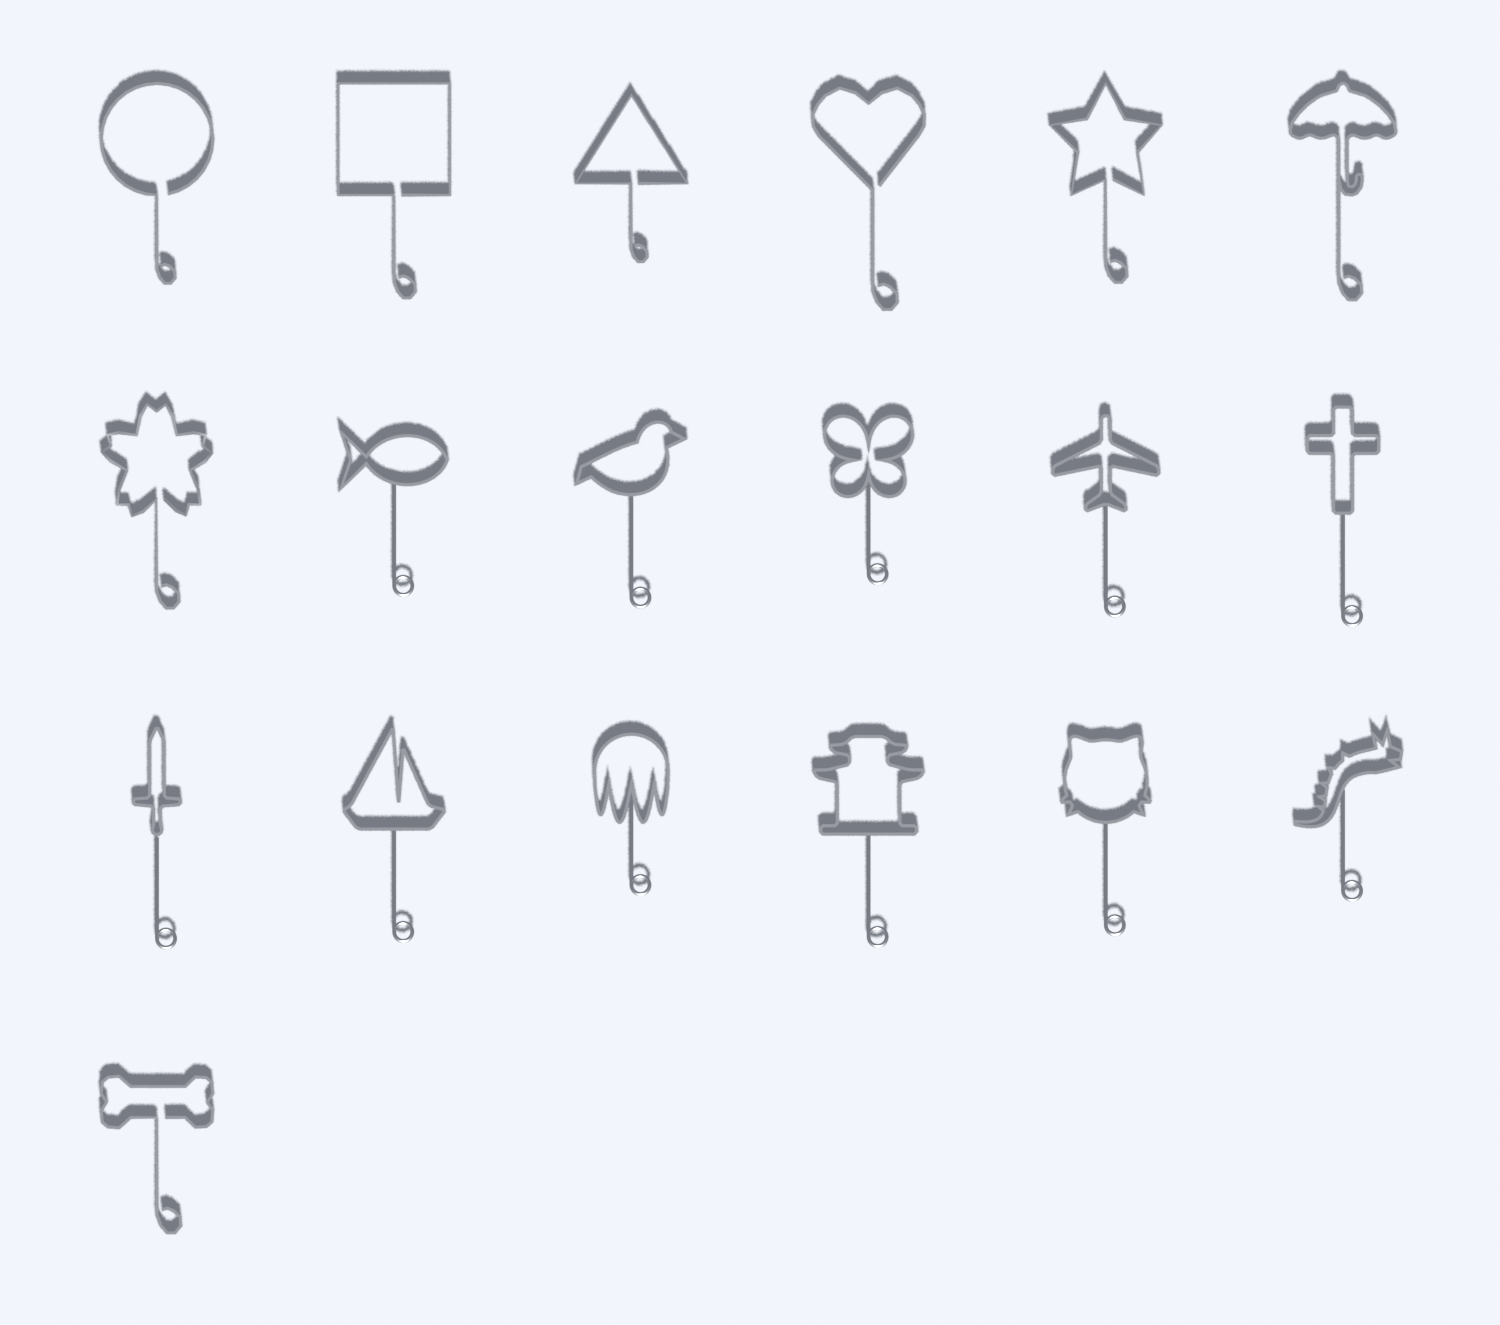
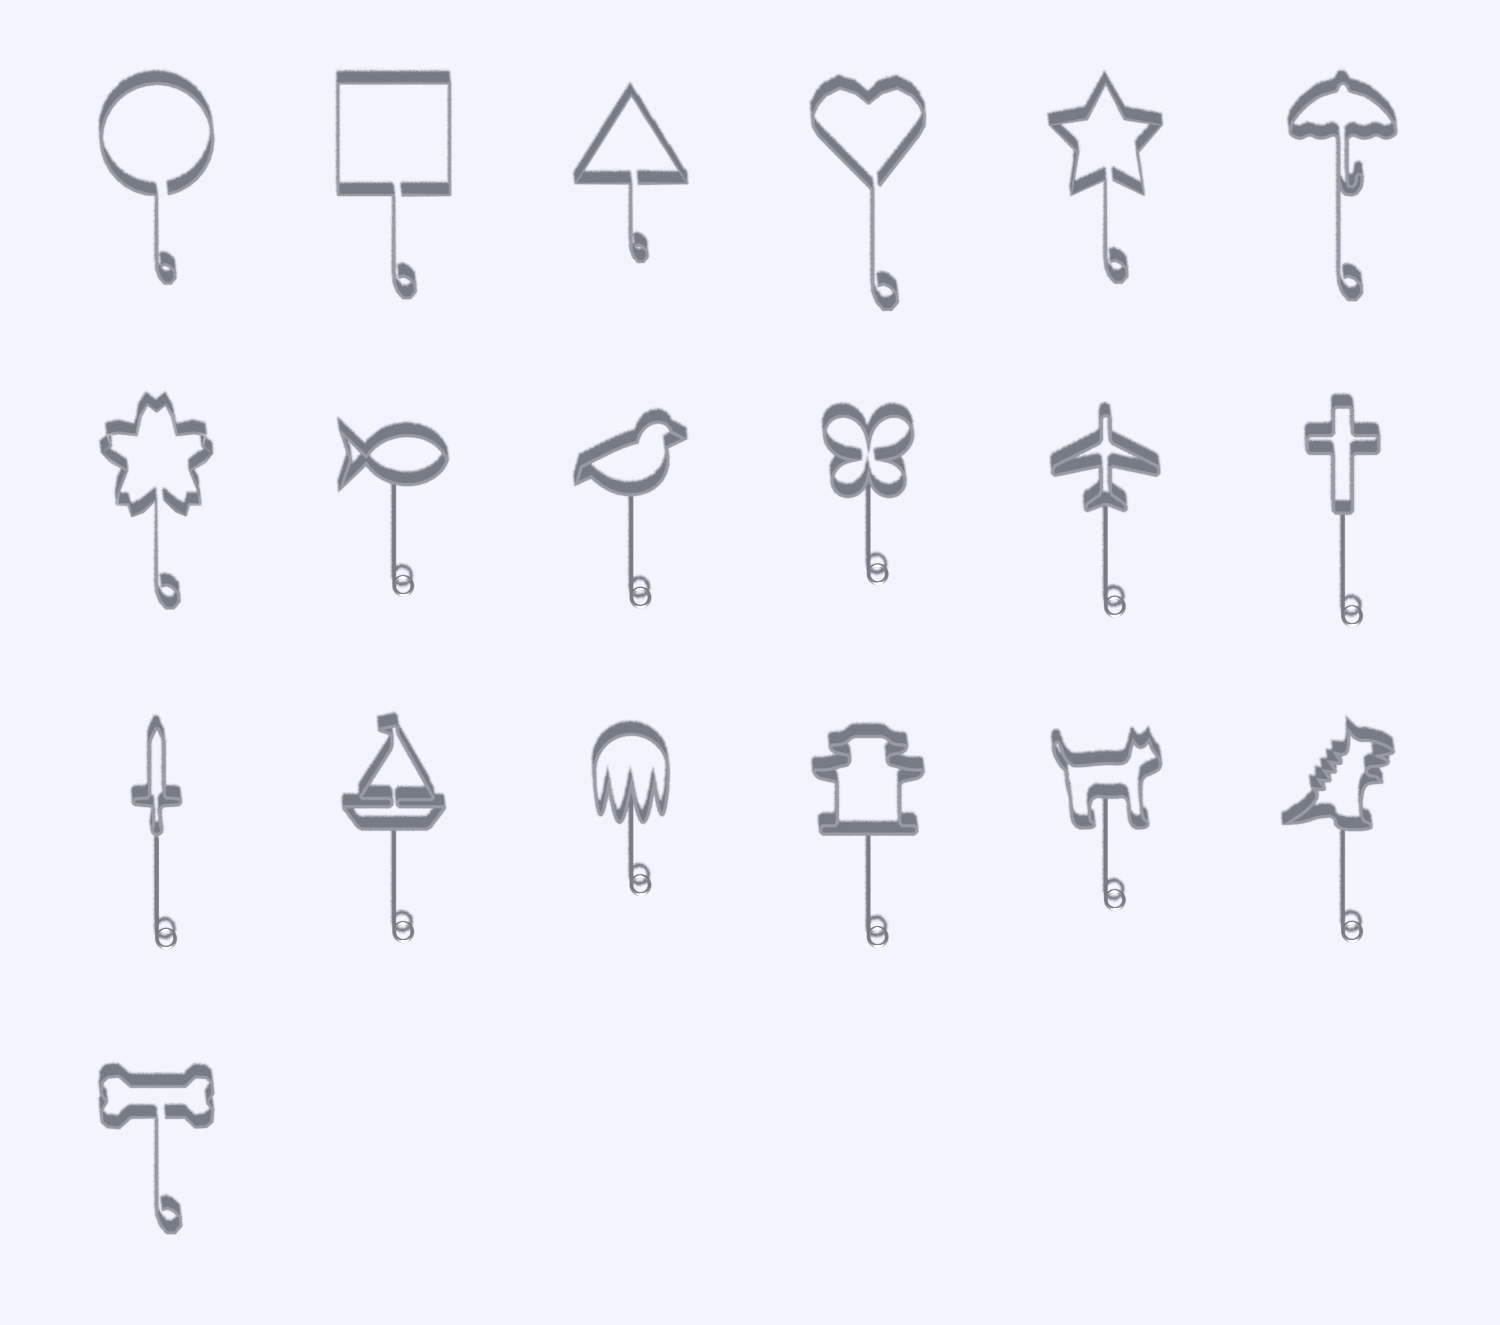
feat: tiger, dragon, sailboat cutters redrawn after real dalgona cutter references

Changed region(s): [[0.7053, 0.526, 0.7973, 0.7117], [0.8587, 0.526, 0.9507, 0.7117], [0.2147, 0.526, 0.3067, 0.6189]]

diff --git a/tools/blender/shapes.py b/tools/blender/shapes.py
@@ -159,10 +159,6 @@ def sword():
     return _dedupe(_mirror(right))
 
 
-def sailboat():
-    return [(-0.92, -0.52), (-0.66, -0.86), (0.66, -0.86), (0.92, -0.52), (0.62, -0.44), (0.16, 0.6), (0.08, -0.4), (-0.02, 0.96), (-0.78, -0.44)]
-
-
 def octopus():
     pts = _arc(0, 0.18, 0.66, 0, math.pi, 30)  # 머리 (오른쪽 → 위 → 왼쪽)
     # 다리 4개: 왼쪽 → 오른쪽으로 아래로 늘어진 물결
@@ -184,40 +180,68 @@ def palace():
     return _dedupe(_mirror(right))
 
 
-def tiger():
-    def r(a):
-        base = 0.74
-        ear = 0.26 * (math.exp(-((a - math.radians(52)) / 0.2) ** 2) + math.exp(-((a - math.radians(128)) / 0.2) ** 2))
-        cheek = 0.0
-        for c in (205, 222, 318, 335):
-            cheek += 0.16 * max(0.0, 1 - abs(a - math.radians(c)) / 0.09)
-        return base + ear + cheek
+def _chaikin(pts, sharp=(), it=2):
+    """닫힌 다각형 모서리를 둥글게 (쿠키 틀 같은 부드러운 실루엣). sharp에 든 꼭짓점 번호는 뾰족하게 둔다."""
+    keep = [i in sharp for i in range(len(pts))]
+    for _ in range(it):
+        out, ok = [], []
+        n = len(pts)
+        for i in range(n):
+            p, q = pts[i], pts[(i + 1) % n]
+            if keep[i]:
+                out.append(p); ok.append(True)
+            else:
+                out.append((0.75 * p[0] + 0.25 * q[0], 0.75 * p[1] + 0.25 * q[1])); ok.append(False)
+            if not keep[(i + 1) % n]:
+                out.append((0.25 * p[0] + 0.75 * q[0], 0.25 * p[1] + 0.75 * q[1])); ok.append(False)
+        pts, keep = out, ok
+    return pts
 
-    return _polar(r, 180)
+
+# 호랑이·용·범선은 실제 달고나 틀(레퍼런스 사진: 공룡·말·곰 등 옆모습 실루엣)처럼
+# 통통하고 단순한 옆모습 외곽선 + 둥근 모서리로 그린다.
+def tiger():
+    # 오른쪽을 보고 걷는 호랑이 옆모습: 귀 2개, 앞·뒷다리, 위로 말린 꼬리
+    pts = [
+        (-0.55, 0.26), (0.0, 0.32), (0.32, 0.3), (0.42, 0.42), (0.44, 0.56), (0.49, 0.72), (0.58, 0.6), (0.68, 0.61),
+        (0.78, 0.73), (0.83, 0.56), (0.91, 0.48), (0.99, 0.34), (0.96, 0.21), (0.82, 0.14), (0.68, 0.08), (0.62, -0.05),
+        (0.64, -0.66), (0.75, -0.72), (0.75, -0.84), (0.42, -0.84), (0.42, -0.26), (0.1, -0.3), (-0.28, -0.26),
+        (-0.3, -0.7), (-0.21, -0.75), (-0.21, -0.84), (-0.6, -0.84), (-0.62, -0.32), (-0.71, -0.02), (-0.68, 0.16),
+        (-0.78, 0.24), (-0.9, 0.42), (-0.95, 0.62), (-0.86, 0.73), (-0.79, 0.58), (-0.75, 0.43), (-0.64, 0.31),
+    ]
+    return _chaikin(pts, sharp={5, 8})
 
 
 def dragon():
-    # S자로 휜 몸 + 머리(오른쪽 위, 뿔 2개) + 뾰족한 꼬리(왼쪽 아래)
-    center = _bezier((-0.85, -0.75), (0.2, -0.95), (-0.6, 0.2), (0.45, 0.35), 40)
-    left, right = [], []
-    n = len(center)
-    for i in range(n):
-        x, y = center[i]
-        x0, y0 = center[max(i - 1, 0)]
-        x1, y1 = center[min(i + 1, n - 1)]
-        dx, dy = x1 - x0, y1 - y0
-        L = math.hypot(dx, dy) or 1
-        nx, ny = -dy / L, dx / L
-        t = i / (n - 1)
-        w = 0.03 + 0.17 * t
-        spike = 0.11 if (0.25 < t < 0.9 and i % 5 == 0) else 0.0  # 등의 가시
-        left.append((x + nx * (w + spike), y + ny * (w + spike)))
-        right.append((x - nx * w, y - ny * w))
-    hx, hy = center[-1]
-    head = [(hx + 0.14, hy + 0.24), (hx + 0.08, hy + 0.5), (hx + 0.26, hy + 0.3), (hx + 0.34, hy + 0.55), (hx + 0.4, hy + 0.27),
-            (hx + 0.6, hy + 0.18), (hx + 0.58, hy + 0.04), (hx + 0.4, hy + 0.02), (hx + 0.55, hy - 0.1), (hx + 0.32, hy - 0.16), (hx + 0.14, hy - 0.2)]
-    pts = right + list(reversed(head)) + list(reversed(left))
-    return _dedupe(pts)
+    # 일어선 용 옆모습 (공룡 틀처럼): 등 가시 5개, 뿔, 벌린 입, 팔, 굵은 다리, 길게 끌리는 꼬리
+    pts, sharp = [(-1.0, -0.76)], {0}
+    pts.append((-0.68, -0.56))
+    ax, ay, bx, by = -0.44, -0.3, 0.06, 0.48
+    dx, dy = bx - ax, by - ay
+    L = math.hypot(dx, dy)
+    nx, ny = -dy / L, dx / L
+    for k in range(5):
+        t0, tm, t1 = (k + 0.1) / 5, (k + 0.5) / 5, (k + 0.9) / 5
+        pts.append((ax + dx * t0, ay + dy * t0))
+        sharp.add(len(pts))
+        pts.append((ax + dx * tm + nx * 0.17, ay + dy * tm + ny * 0.17))
+        pts.append((ax + dx * t1, ay + dy * t1))
+    pts += [(0.1, 0.62)]
+    sharp.add(len(pts)); pts.append((0.1, 0.9))  # 뿔
+    pts += [(0.26, 0.72), (0.48, 0.74), (0.82, 0.62), (0.94, 0.5)]
+    sharp.add(len(pts)); pts.append((0.62, 0.45))  # 입 안쪽
+    pts += [(0.84, 0.36), (0.74, 0.27), (0.42, 0.26), (0.42, 0.1), (0.62, 0.08)]
+    sharp.add(len(pts)); pts.append((0.68, -0.02))  # 발톱
+    pts += [(0.4, -0.04), (0.32, -0.28), (0.32, -0.7), (0.5, -0.76), (0.5, -0.87), (-0.12, -0.87), (-0.14, -0.62), (-0.44, -0.64), (-0.72, -0.74)]
+    return _chaikin(pts, sharp=sharp)
+
+
+def sailboat():
+    # 배 몸통 + 큰 돛(오른쪽) + 작은 돛(왼쪽) + 돛대 끝 깃발
+    return [
+        (-0.62, -0.86), (0.62, -0.86), (0.92, -0.46), (0.06, -0.46), (0.06, -0.33), (0.72, -0.33), (0.06, 0.86),
+        (0.06, 1.0), (-0.3, 0.92), (-0.04, 0.84), (-0.04, 0.6), (-0.62, -0.31), (-0.04, -0.31), (-0.04, -0.46), (-0.92, -0.46),
+    ]
 
 
 # 기획서 순서: (id, 한국어 이름, 등급, 함수)

diff --git a/docs/WORKLOG.md b/docs/WORKLOG.md
@@ -91,6 +91,7 @@
 - `tools/blender/cutters.py` 한 번 실행으로 틀을 전부 만든다 → `dalgona_cutters.glb`(메시 이름 `Cutter_<id>`) + 미리보기 `blender/cutters_sheet.png` + `src/shared/CutterShapes.lua`(각인 외곽선 · 메시 중심, 자동 생성).
 - 사용자가 만든 모형틀(`레퍼런스/3D.blend`의 모형틀1~8)은 그대로 가져와서 게임 크기(모양 1.6 stud, 높이 0.28, 벽 두께 0.045)로 맞춤: 동그라미·세모·네모·별·하트·우산·꽃(벚꽃) + 기획서에 없는 뼈다귀(추가 도안). 외곽선은 `tools/blender/user_cutters.py`가 바닥 선에서 뽑음.
 - 나머지 11종(물고기·새·나비·비행기·십자가·칼·돛단배·문어·궁궐·호랑이·용)은 `tools/blender/shapes.py` 외곽선으로 생성.
+- 사용자가 보낸 실제 달고나 틀 사진(공룡·말·곰 옆모습, 철사 틀)을 참고해 호랑이·용·범선을 통통한 옆모습 실루엣 + 둥근 모서리로 다시 그림 (호랑이 = 걷는 옆모습, 용 = 등 가시·뿔 달린 공룡형, 범선 = 몸통 + 돛 2장 + 깃발).
 - 3D.blend의 Circle.010 / Plane.010은 모형틀3(네모)와 같은 자리에 겹친 조각이라 쓰지 않음.
 
 ### 아직 안 한 것 / 다음
